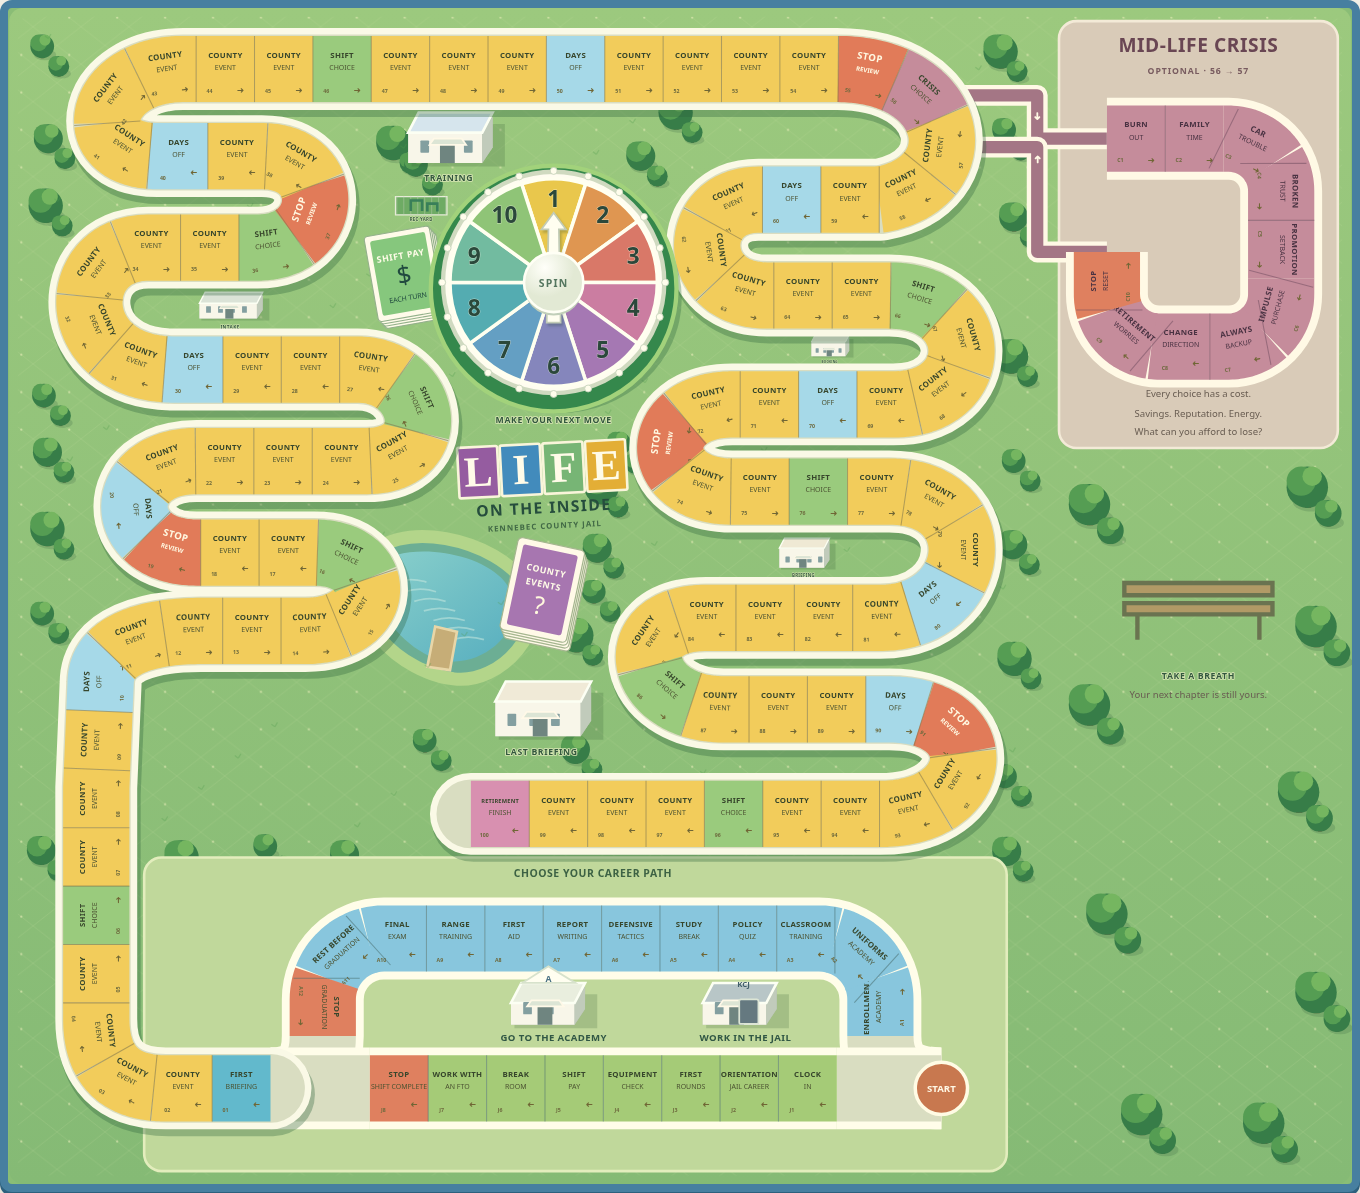
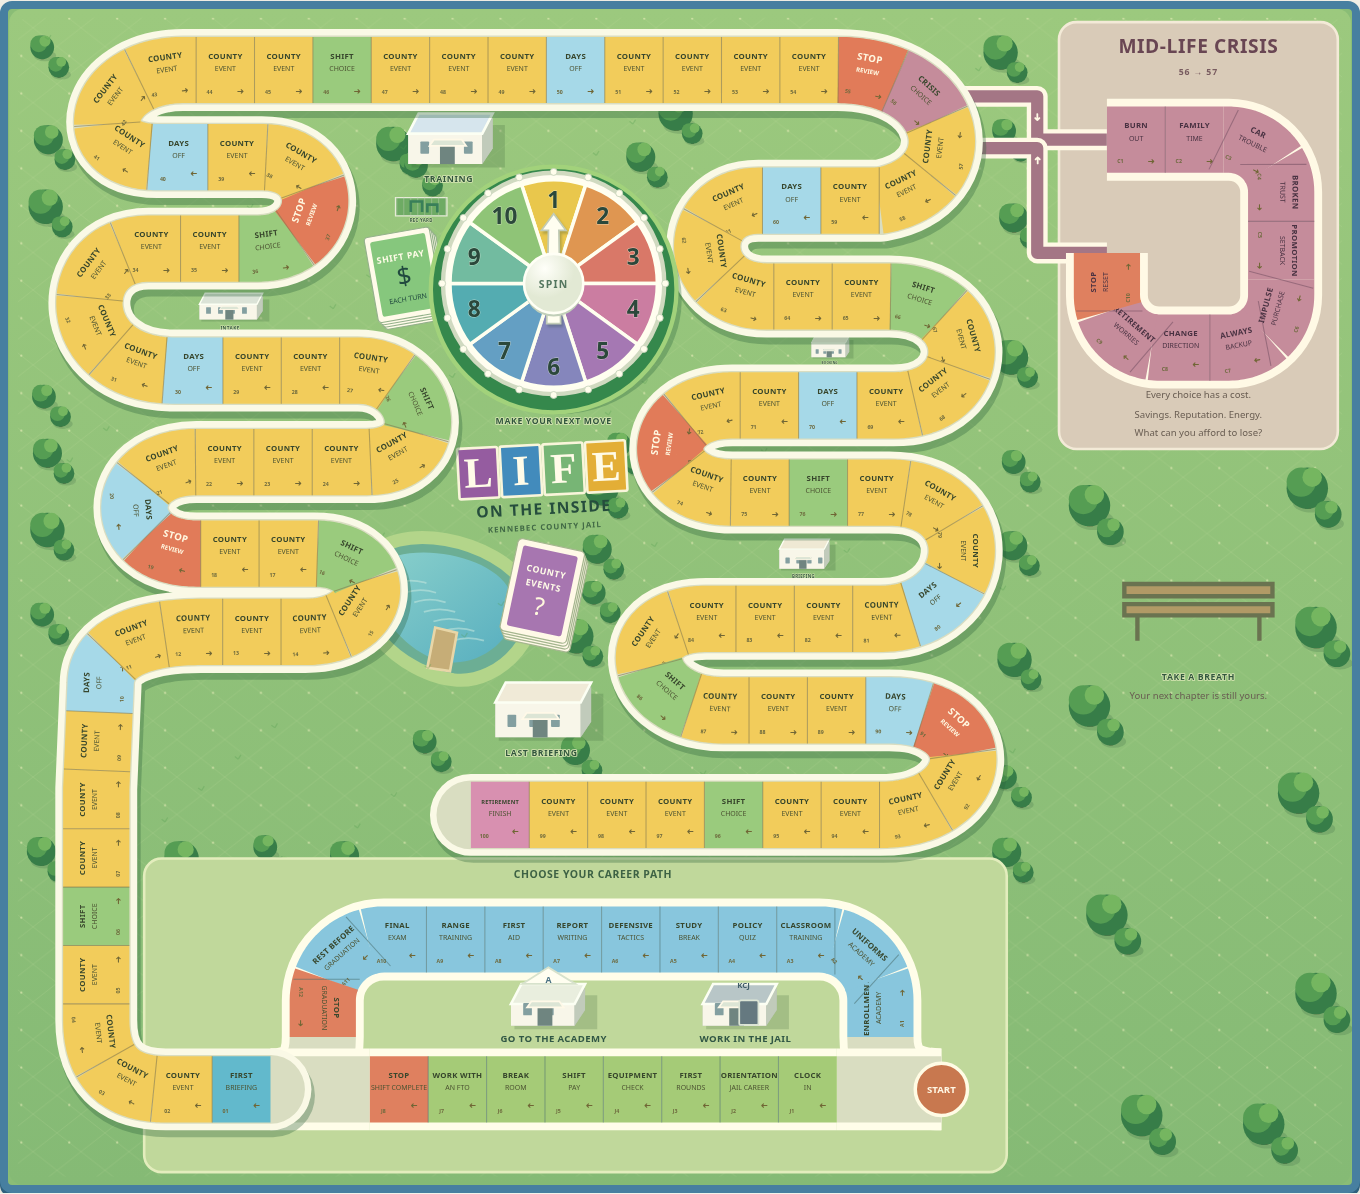
Remove optional labels from the Mid-Life Crisis path

diff --git a/public/life.html b/public/life.html
@@ -1,10 +1,10 @@
 <!doctype html><html lang="en"><head><meta charset="utf-8"><meta name="viewport" content="width=device-width,initial-scale=1"><title>Life on the Inside · The County Career</title><link rel="stylesheet" href="/life/style.css"><link rel="stylesheet" href="/life/board.css"><link rel="stylesheet" href="/online.css"><script type="module" src="/life/app.js"></script></head><body>
 <header class="life-header"><a class="life-brand" href="/"><span class="brand-stamp" aria-hidden="true">L</span><span>Life on the Inside<small>THE COUNTY CAREER</small></span></a><nav><button id="showRules" class="text-button" type="button">How to play</button><a href="/">All games</a></nav></header>
 <main id="lifeMain"><section class="game-intro"><div><p class="eyebrow">KENNEBEC COUNTY JAIL</p><h1>A career worth<br>talking about.</h1></div><p>Work the shift. Look after your crew.<br>Make it to retirement your way.</p></section>
-<div class="career-layout"><section class="board-panel" aria-label="Career board"><div class="board-heading"><span>THE COUNTY CAREER</span><a href="/life-preview">View board mockup</a></div><div id="careerBoard" class="career-board" aria-label="Career path from first briefing to retirement"><div id="careerTiles" class="career-tiles"></div><div id="careerTokens" class="career-tokens"></div></div><div class="board-key"><span><b>Yellow</b> County event</span><span><b>Coral</b> Promotion</span><span><b>Green</b> Shift choice</span><span><b>Blue</b> Days off</span><span><b>Rose</b> Mid-Life Crisis</span></div><p class="board-note">Play through the Academy or jail starting spaces, then follow the main road from First Briefing to Retirement. Passing a promotion stop triggers a review. At Stop 56, choose the main road or the optional 10-space Mid-Life Crisis detour. Both continue at Stop 57.</p></section>
+<div class="career-layout"><section class="board-panel" aria-label="Career board"><div class="board-heading"><span>THE COUNTY CAREER</span><a href="/life-preview">View board mockup</a></div><div id="careerBoard" class="career-board" aria-label="Career path from first briefing to retirement"><div id="careerTiles" class="career-tiles"></div><div id="careerTokens" class="career-tokens"></div></div><div class="board-key"><span><b>Yellow</b> County event</span><span><b>Coral</b> Promotion</span><span><b>Green</b> Shift choice</span><span><b>Blue</b> Days off</span><span><b>Rose</b> Mid-Life Crisis</span></div><p class="board-note">Play through the Academy or jail starting spaces, then follow the main road from First Briefing to Retirement. Passing a promotion stop triggers a review. At Stop 56, choose the main road or the 10-space Mid-Life Crisis detour. Both continue at Stop 57.</p></section>
 <section class="turn-panel" aria-label="Turn controls"><p id="turnEyebrow" class="eyebrow">ON THE CLOCK</p><h2 id="turnName">Loading your crew…</h2><p id="turnRank"></p><div id="turnStats" class="turn-stats"></div><div class="roll-area"><span id="careerDie" class="spinner-result" aria-label="Spinner ready">–</span><p id="turnHint" role="status" aria-live="polite"></p></div><button id="rollCareer" class="primary" type="button">Spin for your shift →</button><button id="openDecision" class="primary" type="button" hidden>Make your decision →</button><button id="endCareerTurn" class="primary" type="button" hidden>End turn →</button><p id="lifeError" class="error" role="alert"></p><button data-end-game class="text-button danger" type="button" hidden>End game</button></section></div>
 <section class="roster-section" aria-labelledby="rosterTitle"><div class="section-heading"><p class="eyebrow">YOUR CREW</p><h2 id="rosterTitle">Everyone’s building a story.</h2></div><div id="careerRoster" class="career-roster"></div></section>
 <section id="careerResults" class="results" aria-labelledby="resultsTitle" hidden><p class="eyebrow">THE FINAL BRIEFING</p><h2 id="resultsTitle"></h2><p>Savings + $100 per reputation + $50 per energy.</p><ol id="finalScores"></ol><a class="primary" href="/life-setup">Play again →</a></section>
 <details class="shift-log"><summary>Shift log</summary><ol id="careerLog"></ol></details></main>
 <dialog id="careerDecision" class="decision-dialog" aria-labelledby="decisionTitle"><button id="closeDecision" class="dialog-close" type="button" aria-label="Close decision">×</button><p id="decisionPlayer" class="eyebrow"></p><span id="decisionIcon" class="decision-icon" aria-hidden="true"></span><h2 id="decisionTitle"></h2><p id="decisionText"></p><div id="decisionOptions"></div><p id="decisionError" class="error" role="alert"></p><p class="dialog-note">Your choice becomes part of your career.</p></dialog>
-<dialog id="careerRules" class="rules-dialog" aria-labelledby="rulesTitle"><button id="closeRules" class="dialog-close" type="button" aria-label="Close rules">×</button><p class="eyebrow">THE COUNTY CAREER</p><h2 id="rulesTitle">Get to retirement. Keep a little life.</h2><p>First choose Go to the Academy ($500 cost, 12 spaces) or Work in the Jail (+$300, 8 spaces). Both choices use 1 energy. Spin to move through your starting route and resolve the space you land on. You must stop at Graduation or First Shift Complete; unused movement ends there. Academy graduation gives you 3 reputation and Officer rank. After resolving the final starting space, join First Briefing and begin the main road on your next turn. Each spin (1–10) earns $200 shift pay plus $150 per rank above Rookie. Each turn uses 1 energy. Passing a promotion review offers a rank increase in exchange for reputation and energy. Other stops bring events, shift choices, or days off.</p><p>At Stop 56, choose whether to stay on the main road or take the optional ten-space Mid-Life Crisis branch. Staying on the main road continues at Stop 57 without any crisis dilemmas. Unused movement ends at the fork. If you passed a promotion review on the way, resolve it before choosing your path. If you take the detour, make the first crisis decision, then spin on later turns and face the dilemma you land on. You must stop at the last crisis space and make its choice before rejoining Stop 57; unused movement ends there too. Each option trades savings, reputation, or energy.</p><p>Read the effects before choosing. Reputation and energy stay between 0 and 10. Reaching zero energy after a decision triggers $200 recovery and restores energy to 3. Savings can become debt.</p><p>You do not need an exact spin to retire. Retired officers stop taking turns. Once the whole crew retires, savings + $100 per reputation + $50 per energy determines the winner. Exact ties share the win.</p><button id="rulesDone" class="primary" type="button">Ready for my shift →</button></dialog><footer>Life on the Inside · The County Career</footer></body></html>
+<dialog id="careerRules" class="rules-dialog" aria-labelledby="rulesTitle"><button id="closeRules" class="dialog-close" type="button" aria-label="Close rules">×</button><p class="eyebrow">THE COUNTY CAREER</p><h2 id="rulesTitle">Get to retirement. Keep a little life.</h2><p>First choose Go to the Academy ($500 cost, 12 spaces) or Work in the Jail (+$300, 8 spaces). Both choices use 1 energy. Spin to move through your starting route and resolve the space you land on. You must stop at Graduation or First Shift Complete; unused movement ends there. Academy graduation gives you 3 reputation and Officer rank. After resolving the final starting space, join First Briefing and begin the main road on your next turn. Each spin (1–10) earns $200 shift pay plus $150 per rank above Rookie. Each turn uses 1 energy. Passing a promotion review offers a rank increase in exchange for reputation and energy. Other stops bring events, shift choices, or days off.</p><p>At Stop 56, choose whether to stay on the main road or take the ten-space Mid-Life Crisis branch. Staying on the main road continues at Stop 57 without any crisis dilemmas. Unused movement ends at the fork. If you passed a promotion review on the way, resolve it before choosing your path. If you take the detour, make the first crisis decision, then spin on later turns and face the dilemma you land on. You must stop at the last crisis space and make its choice before rejoining Stop 57; unused movement ends there too. Each option trades savings, reputation, or energy.</p><p>Read the effects before choosing. Reputation and energy stay between 0 and 10. Reaching zero energy after a decision triggers $200 recovery and restores energy to 3. Savings can become debt.</p><p>You do not need an exact spin to retire. Retired officers stop taking turns. Once the whole crew retires, savings + $100 per reputation + $50 per energy determines the winner. Exact ties share the win.</p><button id="rulesDone" class="primary" type="button">Ready for my shift →</button></dialog><footer>Life on the Inside · The County Career</footer></body></html>

diff --git a/public/life/board.js b/public/life/board.js
@@ -112,7 +112,7 @@ function crisisArea(root,step,point){
  const g=add(root,'g',{class:'crisis-area'}),fork=point((crisisFork+.5)*step),rejoin=point((crisisRejoin+.5)*step);
  add(g,'rect',{x:1205,y:15,width:320,height:490,rx:20,fill:'#d9cbb8',stroke:'#f3ead7','stroke-width':3});
  add(g,'text',{x:1365,y:51,'text-anchor':'middle',class:'crisis-board-title'},'MID-LIFE CRISIS');
- add(g,'text',{x:1365,y:76,'text-anchor':'middle',class:'crisis-board-subtitle'},'OPTIONAL · 56 → 57');
+ add(g,'text',{x:1365,y:76,'text-anchor':'middle',class:'crisis-board-subtitle'},'56 → 57');
  const entrance=add(g,'path',{d:`M${fork.x} ${fork.y}H1180V150H1260`,fill:'none',stroke:'none','data-crisis-entrance':''});
  const exit=add(g,'path',{d:`M1260 280H1180V${rejoin.y}H${rejoin.x}`,fill:'none',stroke:'none','data-crisis-exit':''});
  for(const line of [entrance,exit]){add(g,'path',{d:line.getAttribute('d'),fill:'none',stroke:'#fff9e5','stroke-width':24,'stroke-linejoin':'round'});add(g,'path',{d:line.getAttribute('d'),fill:'none',stroke:'#a47685','stroke-width':14,'stroke-linejoin':'round'});const p=line.getPointAtLength(line.getTotalLength()*.6),a=line.getPointAtLength(line.getTotalLength()*.6-1),b=line.getPointAtLength(line.getTotalLength()*.6+1);add(g,'text',{x:p.x,y:p.y+4,'text-anchor':'middle',class:'crisis-junction-arrow',transform:`rotate(${Math.atan2(b.y-a.y,b.x-a.x)*180/Math.PI} ${p.x} ${p.y})`},'➜');}
@@ -166,7 +166,7 @@ function spinner(root){
 const names={start:['FIRST','BRIEFING'],retire:['RETIREMENT','FINISH'],promotion:['STOP','REVIEW'],shift:['SHIFT','CHOICE'],rest:['DAYS','OFF'],event:['COUNTY','EVENT']};
 const fills={start:'#62b9cc',retire:'#d890b0',promotion:'#e17b59',shift:'#9acb7d',rest:'#a6d9e8',event:'#f2cc5b'};
 export function createBoard(target){
- const svg=node('svg',{viewBox:`0 0 ${boardWidth} ${boardHeight}`,class:'life-board-art',role:'img','aria-labelledby':'lifeBoardTitle lifeBoardDescription'});add(svg,'title',{id:'lifeBoardTitle'},'Life on the Inside: winding county career board');add(svg,'desc',{id:'lifeBoardDescription'},'A colorful road winds around the Academy, jail buildings, trees and a pond. Twelve Academy spaces and eight jail-career spaces join one hundred numbered stops from first briefing to retirement. An optional ten-space Mid-Life Crisis detour branches at Stop 56 and rejoins at Stop 57. A ten-number spinner sits in the center.');
+ const svg=node('svg',{viewBox:`0 0 ${boardWidth} ${boardHeight}`,class:'life-board-art',role:'img','aria-labelledby':'lifeBoardTitle lifeBoardDescription'});add(svg,'title',{id:'lifeBoardTitle'},'Life on the Inside: winding county career board');add(svg,'desc',{id:'lifeBoardDescription'},'A colorful road winds around the Academy, jail buildings, trees and a pond. Twelve Academy spaces and eight jail-career spaces join one hundred numbered stops from first briefing to retirement. A ten-space Mid-Life Crisis detour branches at Stop 56 and rejoins at Stop 57. A ten-number spinner sits in the center.');
  const defs=add(svg,'defs');
  const grass=add(defs,'linearGradient',{id:'lifeGrass',x2:'0',y2:'1'});add(grass,'stop',{'stop-color':'#9cc97e'});add(grass,'stop',{offset:1,'stop-color':'#85ba75'});
  const meadow=add(defs,'pattern',{id:'lifeMeadow',width:55,height:43,patternUnits:'userSpaceOnUse'});add(meadow,'path',{d:'M0 43L55 0M0 0L55 43',stroke:'#d5e5a9','stroke-width':.7,opacity:.4});add(meadow,'circle',{cx:14,cy:11,r:1.3,fill:'#eff0bd'});

diff --git a/public/life-setup.html b/public/life-setup.html
@@ -3,4 +3,4 @@
 <main class="life-setup"><p class="eyebrow">KENNEBEC COUNTY JAIL · AN ORIGINAL BOARD GAME</p><h1>First shift.<br>Whole career ahead.</h1><p class="lead">Start as a rookie. Work the roster, earn promotions, and make it to retirement with something left in the tank.</p><div class="setup-facts"><span>2–6 players</span><span>100 career spaces</span><span>One device or room code</span></div>
 <a class="life-preview-link" href="/life-preview">View the board mockup →</a><br><a id="resumeCareer" class="resume-career" href="/life" hidden>Continue your saved career →</a>
 <form id="lifeSetupForm"><h2>Who’s on the roster?</h2><div id="lifePlayerRows"></div><div class="setup-actions"><button id="lifeAddPlayer" class="secondary" type="button">+ Add player</button><button class="primary" type="submit">Begin your careers →</button></div><p id="setupStatus" role="status"></p></form>
-<details class="rules-card"><summary>How do you win?</summary><p>Everyone begins with $1,000, 3 reputation, and 7 energy. First choose: go to the Academy for $500 and play through 12 training spaces, or work in the jail with an extra $300 and 8 work spaces. Either choice uses 1 energy. Spin to move along your starting route and resolve the space you land on. Stop at graduation or completion of your first shift before joining the main road; unused movement ends there. Academy graduation gives 3 reputation and Officer rank. Each spin collects shift pay. Passing a review gives you a chance to earn a promotion. Better ranks earn better pay. Just past halfway, Stop 56 lets you choose the main road or an optional ten-space Mid-Life Crisis branch. Take the detour for difficult tradeoffs, or stay on the main road. Both paths continue at Stop 57.</p><p>After everyone retires, the highest total wins: savings + $100 per reputation + $50 per energy. Exact ties share the win. Negative savings count as debt. If a decision leaves you with zero energy, recovery costs $200 and restores energy to 3.</p><p>The amounts and ranks are game rules. Every career follows its own story.</p></details></main><footer>Clock in. Make your choices. Leave a legacy.</footer></body></html>
+<details class="rules-card"><summary>How do you win?</summary><p>Everyone begins with $1,000, 3 reputation, and 7 energy. First choose: go to the Academy for $500 and play through 12 training spaces, or work in the jail with an extra $300 and 8 work spaces. Either choice uses 1 energy. Spin to move along your starting route and resolve the space you land on. Stop at graduation or completion of your first shift before joining the main road; unused movement ends there. Academy graduation gives 3 reputation and Officer rank. Each spin collects shift pay. Passing a review gives you a chance to earn a promotion. Better ranks earn better pay. Just past halfway, Stop 56 lets you choose the main road or a ten-space Mid-Life Crisis branch. Take the detour for difficult tradeoffs, or stay on the main road. Both paths continue at Stop 57.</p><p>After everyone retires, the highest total wins: savings + $100 per reputation + $50 per energy. Exact ties share the win. Negative savings count as debt. If a decision leaves you with zero energy, recovery costs $200 and restores energy to 3.</p><p>The amounts and ranks are game rules. Every career follows its own story.</p></details></main><footer>Clock in. Make your choices. Leave a legacy.</footer></body></html>

diff --git a/public/life-preview.html b/public/life-preview.html
@@ -1,3 +1,3 @@
 <!doctype html><html lang="en"><head><meta charset="utf-8"><meta name="viewport" content="width=device-width,initial-scale=1"><meta name="description" content="See the winding board mockup for Life on the Inside, the Kennebec County Jail career game."><title>Life on the Inside · Board mockup</title><link rel="stylesheet" href="/life/style.css"><link rel="stylesheet" href="/life/board.css"><script type="module" src="/life/preview.js"></script></head><body>
 <header class="life-header"><a class="life-brand" href="/"><span class="brand-stamp" aria-hidden="true">L</span><span>Life on the Inside<small>THE COUNTY CAREER</small></span></a><nav aria-label="Game navigation"><a href="/">All games</a><a href="/life-setup">Play the game</a></nav></header>
-<main class="board-preview-main"><span class="preview-tag">BOARD MOCKUP</span><h1>Choose your path.<br>Build your career.</h1><p class="lead">Play through 12 Academy spaces or 8 jail-career spaces, then follow the winding main road with 100 spaces and a ten-number spinner. Just after halfway, an optional ten-space Mid-Life Crisis branch brings difficult choices before rejoining the main road. Take a look around—this is the layout we can make your own.</p><div class="preview-board-wrap"><div class="board-heading"><span>LIFE ON THE INSIDE</span><span>KENNEBEC COUNTY JAIL</span></div><div id="careerBoard" class="career-board" aria-label="Board mockup"><div id="careerTiles" class="career-tiles"></div></div><div class="board-key"><span><b>Yellow</b> County event</span><span><b>Coral</b> Promotion review</span><span><b>Green</b> Shift choice</span><span><b>Blue</b> Days off</span><span><b>Rose</b> Mid-Life Crisis</span></div></div><div class="preview-actions"><a class="primary" href="/life-setup">Gather your crew →</a><a class="life-preview-link" href="/life/board-mockup.png">Open full-size mockup ↗</a><span id="previewSpinResult" role="status" aria-live="polite">Try the spinner in the middle of the board.</span></div></main><footer>Life on the Inside · The County Career</footer></body></html>
+<main class="board-preview-main"><span class="preview-tag">BOARD MOCKUP</span><h1>Choose your path.<br>Build your career.</h1><p class="lead">Play through 12 Academy spaces or 8 jail-career spaces, then follow the winding main road with 100 spaces and a ten-number spinner. Just after halfway, a ten-space Mid-Life Crisis branch brings difficult choices before rejoining the main road. Take a look around—this is the layout we can make your own.</p><div class="preview-board-wrap"><div class="board-heading"><span>LIFE ON THE INSIDE</span><span>KENNEBEC COUNTY JAIL</span></div><div id="careerBoard" class="career-board" aria-label="Board mockup"><div id="careerTiles" class="career-tiles"></div></div><div class="board-key"><span><b>Yellow</b> County event</span><span><b>Coral</b> Promotion review</span><span><b>Green</b> Shift choice</span><span><b>Blue</b> Days off</span><span><b>Rose</b> Mid-Life Crisis</span></div></div><div class="preview-actions"><a class="primary" href="/life-setup">Gather your crew →</a><a class="life-preview-link" href="/life/board-mockup.png">Open full-size mockup ↗</a><span id="previewSpinResult" role="status" aria-live="polite">Try the spinner in the middle of the board.</span></div></main><footer>Life on the Inside · The County Career</footer></body></html>

diff --git a/public/life/rules.js b/public/life/rules.js
@@ -111,7 +111,7 @@ export function decision(game){
  if(game.pending.type==='entry'){
   const space=entryTracks[p.careerPath][p.entryPosition];return {title:(p.careerPath==='academy'?'Academy · ':'Jail career · ')+space.name,icon:space.promote?'★':'◷',text:space.text,options:[{...option(space.promote?'Graduate and join the main road':p.entryPosition===entryTracks[p.careerPath].length-1?'Join the main career road':'Continue',space.cash||0,space.reputation||0,space.energy||0),promote:!!space.promote}]};
  }
- if(game.pending.type==='crisis-fork')return {title:'Mid-Life Crisis · Choose your path',icon:'⇄',text:'Stay on the main road, or take the optional ten-space Mid-Life Crisis detour. The detour brings difficult tradeoffs between savings, reputation, and energy. Both paths continue at Stop 57.',options:[option('Stay on the main road'),option('Take the Mid-Life Crisis detour')]};
+ if(game.pending.type==='crisis-fork')return {title:'Mid-Life Crisis · Choose your path',icon:'⇄',text:'Stay on the main road, or take the ten-space Mid-Life Crisis detour. The detour brings difficult tradeoffs between savings, reputation, and energy. Both paths continue at Stop 57.',options:[option('Stay on the main road'),option('Take the Mid-Life Crisis detour')]};
  if(game.pending.type==='crisis'){const space=crisisSpaces[p.crisisPosition];return {...space,title:'Mid-Life Crisis · '+space.name,icon:'⚡'};}
  if(game.pending.type==='event')return events.find(e=>e.id===game.pending.id);
  if(game.pending.type==='shift')return {title:'Your shift. Your call.',icon:'◷',text:'Money, experience, or a little breathing room? Choose what you need today.',options:[option('Work overtime',550,0,-3),option('Take a training shift',-100,3,-1),option('Take a recovery day',-50,0,4)]};
